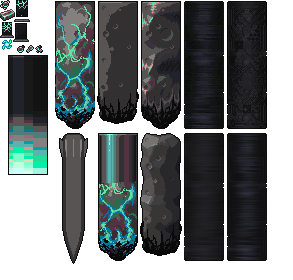
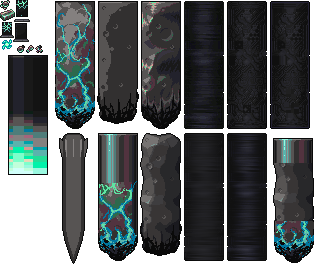
Borealis WIP

diff --git a/Content/RangedOverhaul/Borealis/Borealis.cs b/Content/RangedOverhaul/Borealis/Borealis.cs
@@ -1,0 +1,137 @@
+using Microsoft.Xna.Framework;
+using Microsoft.Xna.Framework.Graphics;
+using ReLogic.Content;
+using Terraria;
+using Terraria.Audio;
+using Terraria.DataStructures;
+using Terraria.GameContent;
+using Terraria.ID;
+using Terraria.ModLoader;
+
+namespace Relogiced.Content.RangedOverhaul.Borealis;
+
+public class Borealis : ModItem
+{
+    public override void SetDefaults()
+    {
+        Item.damage = 10000;
+        Item.crit = 96;
+        Item.DamageType = DamageClass.Ranged;
+        Item.useStyle = ItemUseStyleID.HiddenAnimation;
+        Item.autoReuse = false;
+        Item.useAnimation = 32;
+        Item.holdStyle = ItemHoldStyleID.HoldRadio;
+        Item.useTime = 32;
+        Item.width = 32;
+        Item.height = 20;
+        Item.noUseGraphic = true;
+        Item.shoot = ModContent.ProjectileType<RodFromGod>();
+        SoundStyle sound = SoundID.Item35;
+        sound = sound.WithPitchOffset(-0.2f);
+        Item.UseSound = sound;
+        Item.shootSpeed = 24f;
+        Item.value = Item.buyPrice(0, 10);
+        Item.rare = ItemRarityID.Orange;
+    }
+
+    public override bool CanUseItem(Player player)
+    {
+        return true;//BorealisCooldownSystem.BorealisIsOffCooldown;
+    }
+
+    public override void ModifyWeaponCrit(Player player, ref float crit)
+    {
+        crit = 1;
+    }
+
+    public override void ModifyShootStats(Player player, ref Vector2 position, ref Vector2 velocity, ref int type, ref int damage,
+        ref float knockback)
+    {
+        position = Main.MouseWorld;
+        velocity = Vector2.UnitY * velocity.Length();
+    }
+
+    /*public override bool Shoot(Player player, EntitySource_ItemUse_WithAmmo source, Vector2 position, Vector2 velocity, int type,
+        int damage, float knockback)
+    {
+        if (BorealisCooldownSystem.BorealisIsOnCooldown)
+            return false;
+        BorealisCooldownSystem.BorealisIsOnCooldown = true;
+        return base.Shoot(player, source, position, velocity, type, damage, knockback);
+    }*/
+}
+
+public class BorealisCooldownSystem : ModSystem
+{
+    private static uint _borealisCooldownTimer = 0;
+    public const uint BOREALIS_COOLDOWN = 60 * 90;
+    public static bool BorealisIsOnCooldown
+    {
+        get => _borealisCooldownTimer == 0;
+        set
+        {
+            if (value)
+                _borealisCooldownTimer = BOREALIS_COOLDOWN;
+            else
+                _borealisCooldownTimer = 0;
+        }
+    }
+
+    private bool needsToSync = false;
+    private uint lastTimer = 0;
+
+    public static bool BorealisIsOffCooldown
+    {
+        get => !BorealisIsOnCooldown;
+        set => BorealisIsOnCooldown = !value;
+    }
+
+    public override void PreUpdatePlayers()
+    {
+        if (_borealisCooldownTimer > 0)
+        {
+            _borealisCooldownTimer--;
+        }
+
+        if (_borealisCooldownTimer != lastTimer && _borealisCooldownTimer == 0)
+        {
+            needsToSync = true;
+        }
+
+        lastTimer = _borealisCooldownTimer;
+    }
+}
+
+public class BorealisDrawPlayer : PlayerDrawLayer
+{
+    private static Asset<Texture2D> texAsset;
+
+    public override void SetStaticDefaults()
+    {
+        texAsset = ModContent.Request<Texture2D>("Relogiced/Content/RangedOverhaul/Borealis/Borealis_Held");
+    }
+
+    public override Position GetDefaultPosition()
+    {
+        return PlayerDrawLayers.JimsDroneRadio.GetDefaultPosition();
+    }
+
+    protected override void Draw(ref PlayerDrawSet drawInfo)
+    {
+        if (drawInfo.drawPlayer.HeldItem.type == ModContent.ItemType<Borealis>())// && drawInfo.drawPlayer.itemAnimation == 0)
+        {
+            Rectangle bodyFrame = drawInfo.drawPlayer.bodyFrame;
+            Texture2D value = texAsset.Value;
+            DrawData item = new DrawData(
+                value,
+                new Vector2((float)((int)(drawInfo.Position.X - Main.screenPosition.X - (float)(drawInfo.drawPlayer.bodyFrame.Width / 2) + (float)(drawInfo.drawPlayer.width / 2)) + drawInfo.drawPlayer.direction * 2),
+                    (float)(int)(drawInfo.Position.Y - Main.screenPosition.Y + (float)drawInfo.drawPlayer.height - (float)drawInfo.drawPlayer.bodyFrame.Height + 4f + 14f)) + drawInfo.drawPlayer.bodyPosition + new Vector2((float)(drawInfo.drawPlayer.bodyFrame.Width / 2),
+                    (float)(drawInfo.drawPlayer.bodyFrame.Height / 2)), bodyFrame, drawInfo.colorArmorLegs, drawInfo.drawPlayer.legRotation,
+                drawInfo.legVect,
+                1f,
+                drawInfo.playerEffect);
+            item.shader = drawInfo.cWaist;
+            drawInfo.DrawDataCache.Add(item);
+        }
+    }
+}

diff --git a/Content/RangedOverhaul/Borealis/RodFromGod.cs b/Content/RangedOverhaul/Borealis/RodFromGod.cs
@@ -1,0 +1,132 @@
+using System;
+using System.Collections.Generic;
+using Microsoft.Xna.Framework;
+using Terraria;
+using Terraria.Audio;
+using Terraria.DataStructures;
+using Terraria.ID;
+using Terraria.ModLoader;
+
+namespace Relogiced.Content.RangedOverhaul.Borealis;
+
+public class RodFromGod : ModProjectile
+{
+    public override void SetStaticDefaults()
+    {
+        ProjectileID.Sets.CanHitPastShimmer[Type] = true;
+    }
+
+    public override void SetDefaults()
+    {
+        Projectile.tileCollide = false;
+        Projectile.ignoreWater = true;
+        Projectile.penetrate = -1;
+        Projectile.usesLocalNPCImmunity = true;
+        Projectile.localNPCHitCooldown = -1;
+        Projectile.extraUpdates = 8;
+        Projectile.height = 16 * 15;
+        Projectile.width = 16 * 5;
+        Projectile.DamageType = DamageClass.Ranged;
+        Projectile.friendly = true;
+        Projectile.hostile = true;
+        Projectile.timeLeft *= 1 + Projectile.extraUpdates;
+        Projectile.hide = true;
+    }
+
+    public override void OnSpawn(IEntitySource source)
+    {
+        Projectile.position.Y = 1;
+    }
+
+    public override void DrawBehind(int index, List<int> behindNPCsAndTiles, List<int> behindNPCs, List<int> behindProjectiles, List<int> overPlayers,
+        List<int> overWiresUI)
+    {
+        behindNPCsAndTiles.Add(index);
+    }
+
+    public override void ModifyHitNPC(NPC target, ref NPC.HitModifiers modifiers)
+    {
+        modifiers.FinalDamage *= Projectile.velocity.Length() / 16f;
+        modifiers.SetCrit();
+    }
+
+    private const float STOPPING_SPEED = 0.3f;
+    private const int IGNORE_TILES = 4;
+    private const float STOPPING_FRACTION = 0.8f;
+
+    public override bool? CanDamage()
+    {
+        return !FadingOut() && !TooSlow();
+    }
+
+    public bool FadingOut() => Projectile.timeLeft < 60 * (1 + Projectile.extraUpdates);
+    public float Speed() => Projectile.velocity.Length() * (1 + Projectile.extraUpdates);
+    public bool TooSlow() => Speed() <= STOPPING_SPEED;
+
+    public override void AI()
+    {
+        if (FadingOut())
+        {
+            Projectile.Opacity = Projectile.timeLeft / (60f * (1 + Projectile.extraUpdates));
+            Dust.NewDustDirect(
+                Projectile.position,
+                Projectile.width,
+                Projectile.height,
+                DustID.LunarOre,
+                newColor: Color.DarkSlateGray).velocity *= 0.1f;
+        }
+        
+        Projectile.velocity *= 0.998f;
+        Projectile.velocity.X *= 0.9f;
+        Projectile.ArmorPenetration = (int)Speed();
+        int collidingTiles = 0;
+        int totalTiles = 0;
+        int widthSteps = Projectile.width / 16;
+        int heightSteps = Projectile.height / 32;
+        int flipFlop = Projectile.timeLeft % 2;
+        for (int i = 0; i <= widthSteps; i++)
+        {
+            for (int j = 0; j < heightSteps; j++)
+            {
+                int weight = j / 3 + 1;
+                totalTiles += weight;
+                float u = Projectile.position.X + Projectile.width * (i / (float)widthSteps);
+                float v = Projectile.position.Y + Projectile.height * (j / (float)heightSteps);
+                if (i % 2 == flipFlop)
+                    v += 16;
+                int t = DustID.Clentaminator_Blue;
+                if (WorldGen.InWorld((int)u / 16, (int)v / 16) && Collision.IsWorldPointSolid(new Vector2(u, v), true))
+                {
+                    collidingTiles += weight;
+                    t = DustID.Clentaminator_Red;
+                }
+                if (!Main.rand.NextBool(20))
+                    continue;
+                Dust.NewDustPerfect(new Vector2(u, v), t, Vector2.Zero);
+            }
+        }
+
+        float collidingPercent = (collidingTiles - IGNORE_TILES) / (float)totalTiles;
+        if (FadingOut())
+            collidingPercent *= Projectile.Opacity;
+        collidingPercent = Math.Clamp(collidingPercent / STOPPING_FRACTION, 0, 1);
+        Projectile.velocity.Y += 0.05f * (1f - collidingPercent);
+        Projectile.velocity *= 1f - collidingPercent;
+        if (!FadingOut() && TooSlow())
+            Projectile.velocity = Vector2.Zero;
+
+        //SoundStyle sound = SoundID.Item32;
+        //SoundEngine.PlaySound(sound.WithVolumeScale((Projectile.oldVelocity - Projectile.velocity).LengthSquared()), Projectile.Center);
+    }
+
+    public override void ModifyDamageHitbox(ref Rectangle hitbox)
+    {
+        int fireball = (int)Projectile.velocity.Length();
+        hitbox.Inflate(fireball, fireball / 4);
+    }
+
+    public override Color? GetAlpha(Color lightColor)
+    {
+        return Color.White * Projectile.Opacity;
+    }
+}